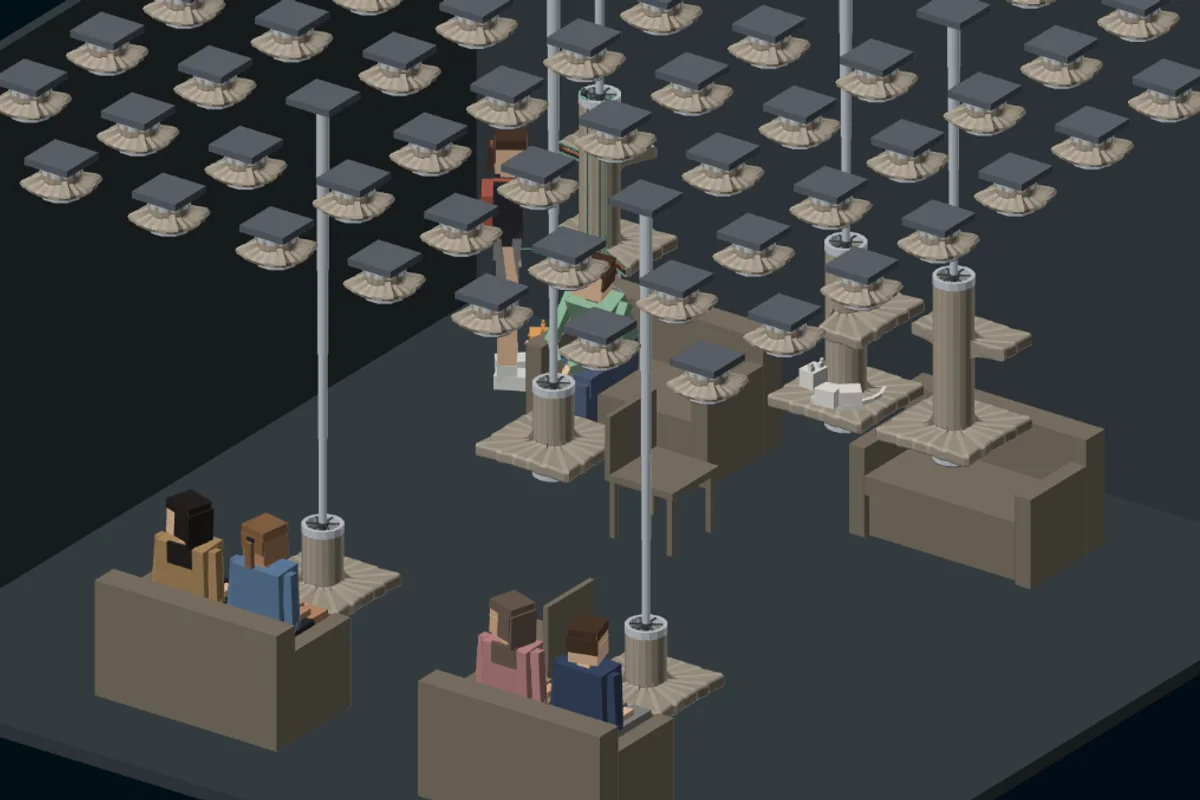
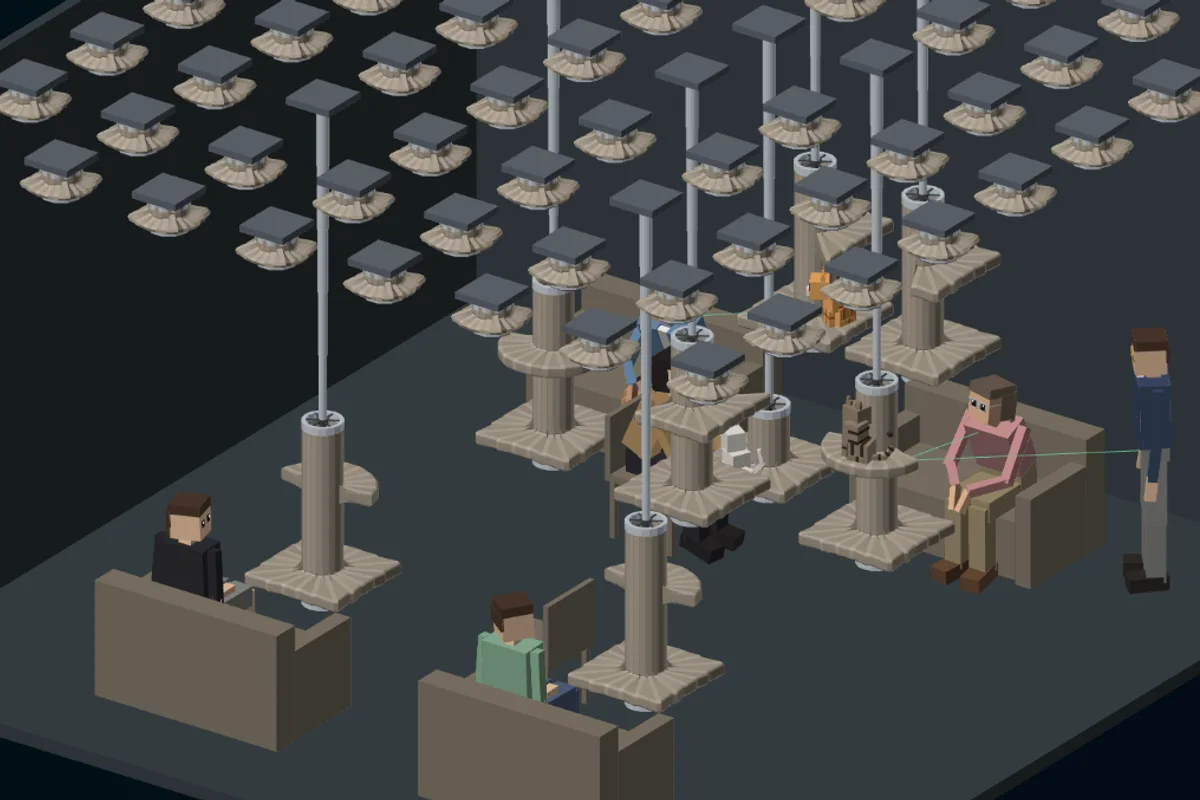
项目二：2-15 分镜与首页封面按茶几猫台 + 6 人 3 猫重截；截图脚本开跑前停住台架、按画布上的事件标记截
- capture.mjs：pauseSim（等烘焙、拉近时的 1 ms 小帧不再推进仿真，同一份脚本每次截到同一场）；room-cycle 后半段按 data-perch / data-tables 等事件
- CohabitSpaceBench：画布写 data-perch / data-tables（只给截图脚本读）
- case-frames：room-cycle 六帧与 two-uses（第 188 秒侧视）重写说明；首页项目二封面第 132 秒
- MAPPING §78.7、CLAUDE.md 状态条

Claude-Session: https://claude.ai/code/session_01RPazAg11nA6RyjpA246v8K

diff --git a/src/lib/site/case-frames.ts b/src/lib/site/case-frames.ts
@@ -180,16 +180,16 @@ export const CASE_FRAMES: Record<string, FrameSet> = {
     tw: 480,
     cols: 3,
     caption: {
-      zh: '前排沙发上两位访客坐下又起身，面前那台落下当茶几再收回（实验 2-15，局部）',
-      en: 'Two visitors on the front sofa sit down and later stand, and the unit in front of them comes down as a coffee table and goes back up (Lab 2-15, detail)',
+      zh: '沙发前的那台落成茶几猫台：下台是茶几，上台只在背向沙发的半圈，给猫（实验 2-15，局部）',
+      en: 'The unit in front of a sofa comes down as a coffee table with a cat platform: the lower level is the table, the upper level covers only the half facing away from the sofa, for cats (Lab 2-15, detail)',
     },
     frames: [
-      { file: 't011_00', t: { zh: '0:11.0', en: '0:11.0' }, note: { zh: '两人走到沙发前，面前的单元还收在天花板下', en: 'two visitors reach the sofa, the unit in front of it still stowed under the ceiling' } },
-      { file: 't011_45', t: { zh: '0:11.5', en: '0:11.5' }, note: { zh: '坐下，面前那台沿芯落下', en: 'they sit, and the unit in front comes down its core' } },
-      { file: 't011_90', t: { zh: '0:11.9', en: '0:11.9' }, note: { zh: '落到茶几高度，收缩成形', en: 'at coffee-table height it contracts and forms' } },
-      { file: 't012_50', t: { zh: '0:12.5', en: '0:12.5' }, note: { zh: '茶几成形', en: 'the coffee table has formed' } },
-      { file: 't140_80', t: { zh: '2:20.8', en: '2:20.8' }, note: { zh: '两人起身，桌子往上收。左边沙发上的人身边那台抽中了整圈两层', en: 'they stand, and the table rises. The unit beside the visitor on the left sofa came down as two levels all round' } },
-      { file: 't142_60', t: { zh: '2:22.6', en: '2:22.6' }, note: { zh: '收回天花板下', en: 'back under the ceiling' } },
+      { file: 't009_80', t: { zh: '0:09.8', en: '0:09.8' }, note: { zh: '两人走到前排沙发前，面前的单元还收在天花板下', en: 'two visitors reach the front sofa, the unit in front of it still stowed under the ceiling' } },
+      { file: 't010_25', t: { zh: '0:10.3', en: '0:10.3' }, note: { zh: '坐下，面前那台沿芯落下', en: 'they sit, and the unit in front comes down its core' } },
+      { file: 't012_00', t: { zh: '0:12.0', en: '0:12.0' }, note: { zh: '落到 0.5 m 成形：下台当茶几，背面多出半圈上台', en: 'at 0.5 m it forms: the lower level is the coffee table, with a half-ring upper level at the back' } },
+      { file: 't132_00', t: { zh: '2:12', en: '2:12' }, note: { zh: '右边沙发前的茶几猫台：一只猫停在上台上，旁边坐着人', en: 'the coffee-table unit by the right-hand sofa: a cat rests on the upper level beside a seated visitor' } },
+      { file: 't236_50', t: { zh: '3:56.5', en: '3:56.5' }, note: { zh: '那位访客起身，这一台往上收', en: 'the visitor stands, and the unit rises' } },
+      { file: 't240_00', t: { zh: '4:00', en: '4:00' }, note: { zh: '收回天花板下，猫回到地面', en: 'back under the ceiling, and the cat is on the floor' } },
     ],
   },
   // FIG.10 · 两种用法（Lab 2-15 侧视）
@@ -200,10 +200,10 @@ export const CASE_FRAMES: Record<string, FrameSet> = {
     h: 536,
     tw: 1008,
     caption: {
-      zh: '侧视剖面（实验 2-15，第 100 秒）。沙发前落成茶几的单元台面离地 0.42 m。给猫落的三台这一刻都抽中了半圈有顶的两层（下台 0.90 m），猫坐在其中一台的下台上。其余单元收在天花板下',
-      en: 'Side section (Lab 2-15, at 100 s). Units that came down as coffee tables in front of the sofas sit 0.42 m above the floor. The three units lowered for cats all drew two levels roofed over half (the lower at 0.90 m), and a cat sits on the lower platform of one of them. The rest are stowed under the ceiling',
+      zh: '侧视剖面（实验 2-15，第 188 秒）。左：沙发前的茶几猫台，下台 0.50 m 当茶几，上台再高 0.58 m，只在背向沙发的半圈。中间两台是给猫的平台（1.05 m），一只猫站在其中一台上。右：整圈两层（0.90 / 1.48 m）。其余单元收在天花板下',
+      en: 'Side section (Lab 2-15, at 188 s). Left: the coffee-table unit by a sofa, its lower level at 0.50 m as the table and its upper level 0.58 m higher over the half facing away from the sofa. The two in the middle are cat platforms at 1.05 m, with a cat standing on one. Right: two levels all round (0.90 / 1.48 m). The rest are stowed under the ceiling',
     },
-    frames: [{ file: 't100-side', t: { zh: '1:40 · 侧视', en: '1:40 · side view' } }],
+    frames: [{ file: 't188-side', t: { zh: '3:08 · 侧视', en: '3:08 · side view' } }],
   },
 
   // ─── 项目一（轮回机器）─────────────────────────────────────────────────────

diff --git a/components/lab/CohabitSpaceBench.tsx b/components/lab/CohabitSpaceBench.tsx
@@ -918,6 +918,13 @@ export function CohabitSpaceBench({
         placeBoth(cats, r, key, look.coat, (tone) => catColor(tone, look), pl.x * UNITS_PER_M, footY, pl.y * UNITS_PER_M, figureYaw(pl.heading), clampHeadYaw(pl.headTurn, CAT_HEAD_YAW_MAX));
       });
       drawBatches(cats);
+      // 截图脚本读（scripts/case-frames/capture.mjs 的 room-cycle）：此刻有猫停着的、落成了的茶几猫台，与此刻在当桌子的台。只在变了时写
+      {
+        const perchNow = sim.cats.filter((c) => c.unit && !c.transfer && coffeeOn[c.unit.i] && sim.act.degree[c.unit.i] >= 1 - 1e-3).map((c) => c.unit!.i).sort((x, y) => x - y).join(',');
+        if (canvas.dataset.perch !== perchNow) canvas.dataset.perch = perchNow;
+        const tablesNow = Array.from(sim.tableBy, (f, u) => (f >= 0 ? u : -1)).filter((u) => u >= 0).join(',');
+        if (canvas.dataset.tables !== tablesNow) canvas.dataset.tables = tablesNow;
+      }
       // 膜：半透明，实体（带子、立杆、人、猫、家具）都画完之后再画；整台的按视深从远到近
       if (sim.space !== 'empty' && trajs) {
         const M = cam.matrix;

diff --git a/CLAUDE.md b/CLAUDE.md
@@ -341,6 +341,8 @@
 
 - **案例页 1.05 m 那句改写 · 2-15 轻量化（2026-10-31，用户「正文那句 1.05 m 你帮我改了吧 然后优化一下代码 轻量化一点」）**：① 项目二「一个单元，两种用法」那段拆成两段（作者授权站方改写）：桌子一段原文不动；给猫落的台另起一段，写平台 1.05 m、两层时下台 0.90 m（猫眼与坐着的人齐平）上台台面 1.48 m、成哪种形随机、坐着的人身边那台多半落成两层，末句改成四个台面高度都在 0.4–1.2 m 之间（MAPPING §78.6）。② 轨迹烘焙停稳就不再算：受力结束、连续两步位移 < 1e-12 就停，这一段剩下的关键帧共用停稳那一帧（与改前逐帧差 ≤ 7.8e-12、键与取帧下标逐位相同），Node 里九条 42.9 → 34.2 s、内存 5.9 → 5.1 MB；平台三档也挪进后台线程，两套调度合成一个 `bakeGroup`。案例页项目二实测：仿真开跑 15.9 → 8.3 s，两层的台可用 49.0 → 33.8 s，这段时间主线程脚本时间 9.4 → 0.8 s。守门 +1。细节 = 项目二_人猫同台lab.md §14.25。
 
+- **项目二复盘与下一轮（2026-11-05，作者「复习项目二」→ 逐项拍板）**：① **对照按 2-15 的房间重跑**（方台 · 64 台铺满 · 坐下落桌子 · 错身 · 演示节奏，`CASE_ROOM` 一处定义），**标准场景改 6 人 3 猫 + 12 人 5 猫**（`MAX_CATS` 3 → 5），3 人 1 猫留作低客流一端。结果比圆台那版弱：只有 6 人 3 猫 · 座位旁边那台 · 整条路一次落对两个基准都显著（共温 897 对 761 / 755 s，d ≈ 0.8），12 人 5 猫只对钉死勉强显著，共触空房间最多；引导五分钟只走完一两次。案例页对照结果一节中英按新数改写（人猫同台lab §16）。② **形对猫的影响查文献**（形态方案 §13）：方向有出处（Kry & Casey 2007 的「能藏、顶上能趴」箱让猫更常主动走向人；Ellis 等 2017 猫把时间多给躲藏处；Sicuto de Oliveira 2015 1.0 m 的箱没猫用、0.5 m 待得最久），幅度没有；查出 `CAT_LEVELS` 的 49% 标定目标读错（Hirsch 49.3% 是偏好高处的猫占比，不是时间占比），按作者「不要标死时间」改成以后扫台上占比三档（未做）。③ **茶几猫台**（作者选 B · 上台 k28 · 餐椅保留 · 不挡；形态方案 §14 线稿 + §14.1 落地）：沙发前那台落成两个结构，下台 0.5 m 茶几、上台只在背向沙发的半圈；`dualUnitSpec` 加 `kUp` / `lift`（省略逐位不变）；平面规则 `perch`（默认关）：沙发座位引猫到茶几那台、猫上这台免高跳。读数：引导走完翻倍（12 人 1.4 → 3.2 次），**共温不变**。④ **第 2 步有顶处能忍得更久**（`roofTolMul`，扫 1 / 1.5 / 2）**也不改共温**：猫离开茶几猫台 37/44 次是被另一座位的引路抢走、忍耐一次没用上；补上「引到了不再抢」（`holdArrived`，默认关）仍在噪声里。读法：共温主要不来自空间把猫引到人身边（形态方案 §14.2）。⑤ 2-15 分镜 room-cycle / two-uses 与首页封面重截；截图脚本开跑前先停住台架，并按画布上的 `data-perch` / `data-tables` 等事件截（MAPPING §78.7）。**都在分支 claude/project-two-review-1xpm7w，未合 master。待作者**：下一步杠杆在人这一侧规则或引路频率，还是收口；台上占比三档要不要扫；案例页正文是否写进茶几猫台的对照结果。
+
 ## Lab 编号对照（2026-09-03 收纳 · 2026-09-13 改按项目编号）
 
 **2026-09-13 起页面编号按项目**（用户拍板「lab1-1 就是项目 1 第一个」）：`Lab 项目-序号`，锚点 `#lab1-1`／`#lab2-5-split`，旧哈希 `#lab10(-split)` 照认（`components/lab/planHash.ts` 的 `normalizedLabHash` + `LegacyLabHash`）。项目一 Lab.01–05 → **1-1…1-5**（四杆 / 拱环 / 触手 / 五环 / 整机），**1-6 = 行为引擎**（2026-10-07 新增，与 1-5 同一台整机、换驱动源，无两位号）；项目二见下表首列。改的只是页面上看得见的号（台架题头、主页卡片、案例页图注、规格表引用、差分清单 id）——**代码注释与本文件上方条目里的两位号一律是写下时的号（历史，不改）**，对话里提编号先说清是哪套。
